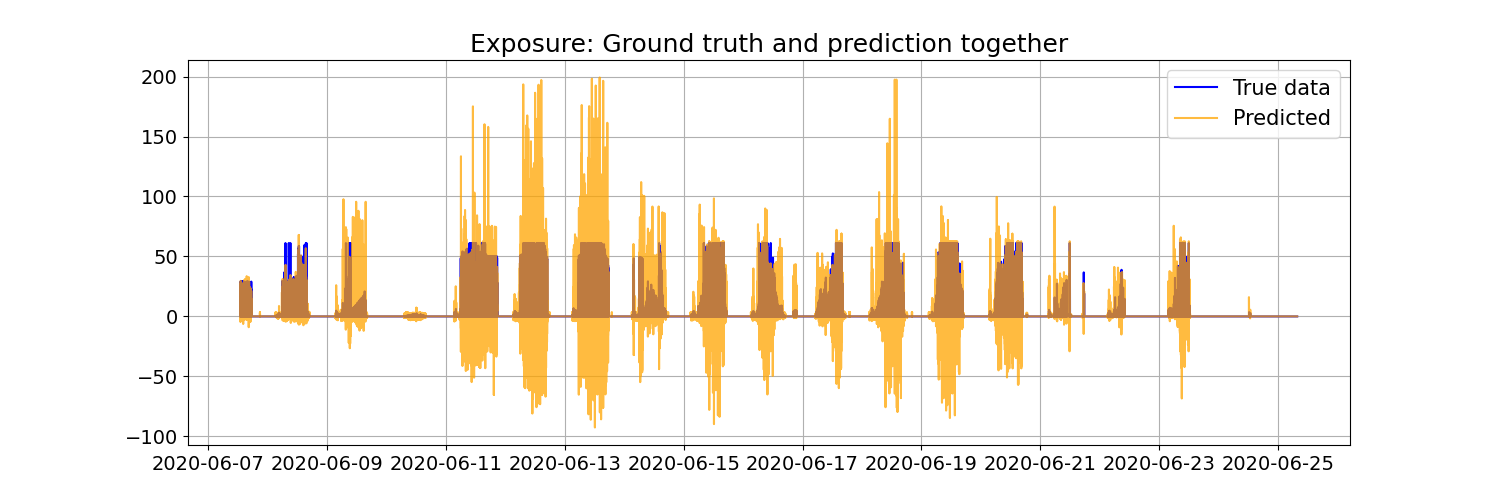
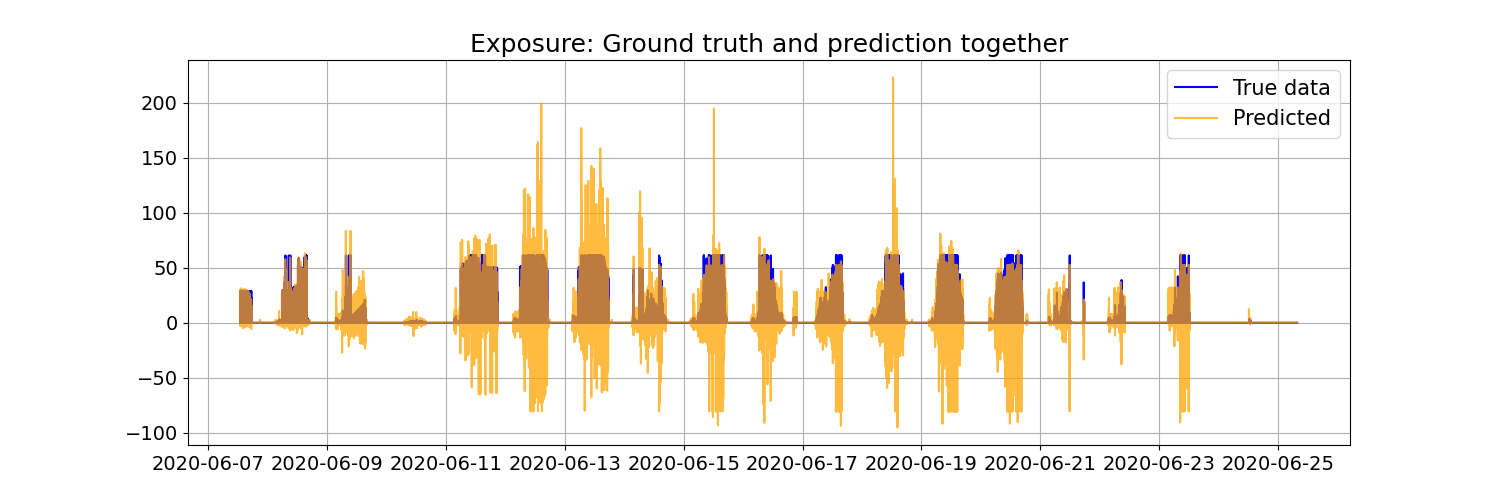
final

diff --git a/model_lux.py b/model_lux.py
@@ -57,9 +57,11 @@ def convertToMatrix(data, step):
     return np.array(X), np.array(Y)
 
 
-def build_simple_rnn(num_units=128, embedding=4, num_dense=32, lr=0.001):
+def build_simple_rnn(num_units=128, embedding=4, num_dense=32, lr=0.0005):
     model = Sequential()
     model.add(SimpleRNN(units=num_units, input_shape=(1, embedding), activation="relu"))
+    model.add(Dense(num_dense, activation="relu"))
+    model.add(Dense(num_dense, activation="relu"))
     model.add(Dense(num_dense, activation="relu"))
     model.add(Dense(1))
     model.compile(loss='mean_squared_error', optimizer=RMSprop(lr=lr), metrics=['mse'])
@@ -84,7 +86,7 @@ testX = np.reshape(testX, (testX.shape[0], 1, testX.shape[1]))
 
 model_temp = build_simple_rnn(num_units=128, num_dense=32, embedding=8, lr=0.001)
 
-batch_size = 50
+batch_size = 64
 num_epochs = 2000
 
 model_temp.fit(trainX, trainY, epochs=num_epochs, batch_size=batch_size, callbacks=[MyCallback()], verbose=0)
@@ -102,6 +104,7 @@ plt.show()
 trainPredict = model_temp.predict(trainX)
 testPredict = model_temp.predict(testX)
 predicted = np.concatenate((trainPredict, testPredict), axis=0)
+
 index = df.index.values
 
 plt.figure(figsize=(15, 5))

diff --git a/model_hum.py b/model_hum.py
@@ -57,9 +57,11 @@ def convertToMatrix(data, step):
     return np.array(X), np.array(Y)
 
 
-def build_simple_rnn(num_units=128, embedding=4, num_dense=32, lr=0.001):
+def build_simple_rnn(num_units=128, embedding=4, num_dense=32, lr=0.0005):
     model = Sequential()
     model.add(SimpleRNN(units=num_units, input_shape=(1, embedding), activation="relu"))
+    model.add(Dense(num_dense, activation="relu"))
+    model.add(Dense(num_dense, activation="relu"))
     model.add(Dense(num_dense, activation="relu"))
     model.add(Dense(1))
     model.compile(loss='mean_squared_error', optimizer=RMSprop(lr=lr), metrics=['mse'])
@@ -84,7 +86,7 @@ testX = np.reshape(testX, (testX.shape[0], 1, testX.shape[1]))
 
 model_temp = build_simple_rnn(num_units=128, num_dense=32, embedding=8, lr=0.001)
 
-batch_size = 50
+batch_size = 64
 num_epochs = 2000
 
 model_temp.fit(trainX, trainY, epochs=num_epochs, batch_size=batch_size, callbacks=[MyCallback()], verbose=0)

diff --git a/model_temp.py b/model_temp.py
@@ -73,9 +73,11 @@ def convertToMatrix(data, step):
 
 
 # Funkcja do budowy modelu RNN.
-def build_simple_rnn(num_units=128, embedding=4, num_dense=32, lr=0.001):
+def build_simple_rnn(num_units=128, embedding=4, num_dense=32, lr=0.0005):
     model = Sequential()
     model.add(SimpleRNN(units=num_units, input_shape=(1, embedding), activation="relu"))
+    model.add(Dense(num_dense, activation="relu"))
+    model.add(Dense(num_dense, activation="relu"))
     model.add(Dense(num_dense, activation="relu"))
     model.add(Dense(1))
     model.compile(loss='mean_squared_error', optimizer=RMSprop(lr=lr), metrics=['mse'])
@@ -103,7 +105,7 @@ testX = np.reshape(testX, (testX.shape[0], 1, testX.shape[1]))
 # Inicjalizacja modelu sieci neuronowej.
 model_temp = build_simple_rnn(num_units=128, num_dense=32, embedding=8, lr=0.001)
 
-batch_size = 50
+batch_size = 64
 num_epochs = 2000
 
 # Trenowanie modelu sieci neuronowej.
